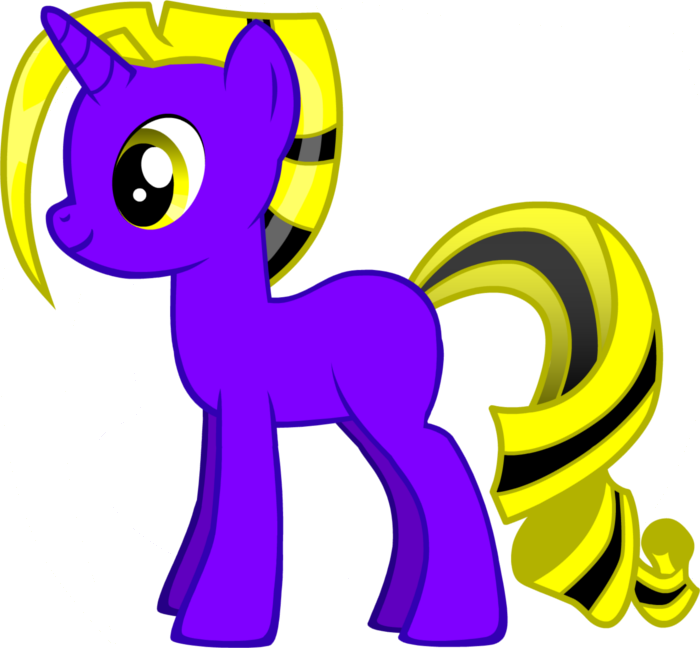
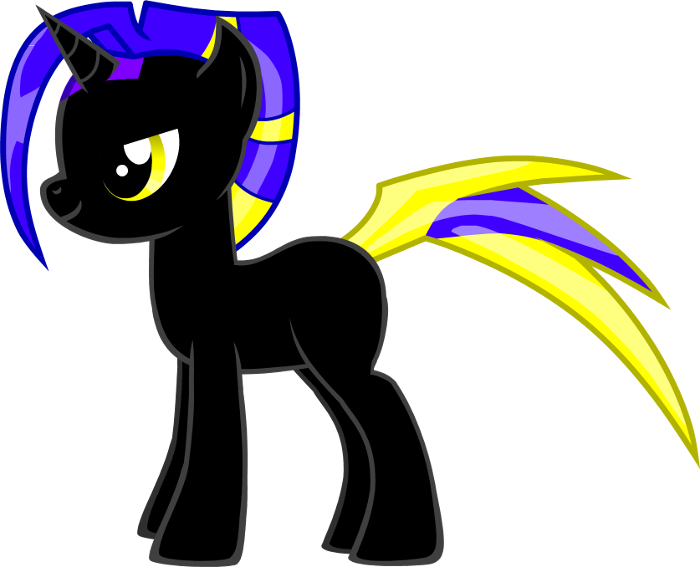
update slanger image, add his DNA, added CM image

diff --git a/Entity/DevTSK/Entity/MasterControl.java b/Entity/DevTSK/Entity/MasterControl.java
@@ -109,8 +109,9 @@ public class MasterControl {
 					new UnMarriedMachinePonii("D105", "Bit", "", false, "\nKid of C4 and C5\nUsually found playing with Emi", "\nD105", "Blue and red", "Blue and red", "C523", "C418", new Day(4, 6, 2015), "null.png", "null.png"),
 					new UnMarriedMachinePonii("D113", "Byte", "", true, "\nSecond Kid of C4 and C5\nWIP", "\nWIP", "WIP", "WIP", "C5", "C4", new Day(2, 29, 2016), "null.png", "null.png"),
 
-					new MarriedPonii("Slanger Radon", "Slanger", "", false, false, "\nUnicorn\nSeems to dislike using his magic.", "\nA Purple and yellow diamond", "Purple and yellow", "Purple and yellow", "Photonia", "Tachæon", new Day(2, 6, 1944), "null.png", "null.png", "Charrie",
-							new String[] { "Shadow", "Shyne", "Steve", "Blitz" }),
+					new MarriedPonii("Slanger Radon", "Slanger", "", false, false, "\nUnicorn\nSeems to dislike using his magic.", "\nA Purple and yellow diamond", "Purple and yellow", "Purple and yellow", "Photonia", "Tachæon", new Day(2, 6, 1944), "slanger.png", "star.png", "Charrie",
+							new String[] { "Shadow", "Shyne", "Steve", "Blitz" })
[1 lines of base64/hex data omitted]
 					new MarriedPonii("Charrie (Firefly) Sychace Radon", "Charrie", "", true, false, "\nPegasus\nOld but cares allot about every ponii", "\nBlack Outlined White Thunderbolt", "Pinkish brown", "Pinkish brown", "Keri", "Craider", new Day(13, 7, 1948), "charrie.png", "null.png", "Slanger",
 							new String[] { "Shadow", "Shyne", "Steve", "Blitz" }),
 
